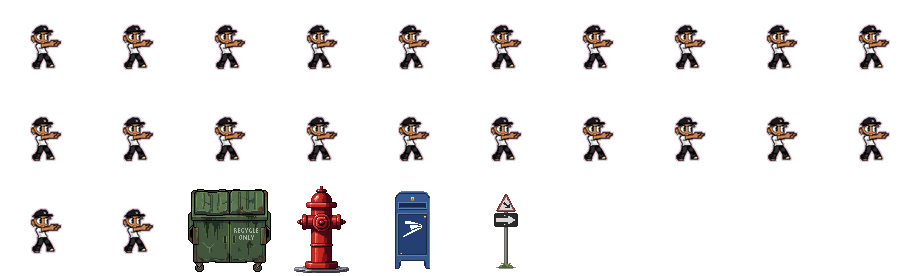
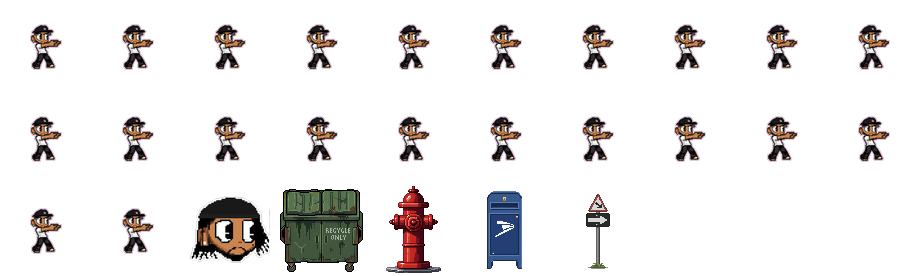
Battery-style HP bar and a dedicated portrait face, from reference art
- packed a new hero.portrait sprite from the uploaded face crop; the
  HUD portrait box and the PWA manifest icon now draw it directly
  instead of zooming into a corner of the full-body placeholder pose
- replaced the 4-heart HP display with a battery-style bar (case,
  green charge draining to white, terminal nub) matching the uploaded
  "BAM'S HEALTH BAR" reference art, labeled with a live percentage.
  Underlying HP/knockdown mechanics are unchanged — this is a display
  swap only.

Changed region(s): [[0.1826, 0.6667, 0.487, 1.0], [0.5174, 0.6957, 0.5783, 0.9855], [0.6391, 0.6957, 0.6696, 0.9855]]

diff --git a/src/game.html b/src/game.html
@@ -354,8 +354,8 @@ function buildManifest(){
     const rg=g.createRadialGradient(256,300,20,256,300,300);
     rg.addColorStop(0,'rgba(255,46,136,.55)'); rg.addColorStop(1,'rgba(255,46,136,0)');
     g.fillStyle=rg; g.fillRect(0,0,512,512);
-    const p=IDX['hero.rot.south'];
-    g.drawImage(sheet,p[0]+30,p[1]+20,32,52, 152,120,208,338);
+    const p=IDX['hero.portrait']||IDX['hero.rot.south'];
+    g.drawImage(sheet,p[0],p[1],S,S, 96,96,320,320);
     const man={ name:'BamBam: Warrior of Liberation', short_name:'BamBam', start_url:'.', scope:'.',
       display:'fullscreen', orientation:'landscape', background_color:'#0b0a10',
       theme_color:'#ff2e88', description:"A 2D beat 'em up.",
@@ -2800,13 +2800,10 @@ function drawDrop(d){ const sx=d.x-camX, y=d.z-d.y; shadow(d.x,d.z,5);
     ctx.save(); ctx.globalCompositeOperation='lighter'; ctx.globalAlpha=gl*0.5; ctx.fillStyle='#fff'; ctx.fillRect(sx-2,y-7,3,3); ctx.restore();
     ctx.fillStyle='#ffb545'; ctx.font='7px "JetBrains Mono",monospace'; ctx.textAlign='center'; if(t%24<16) ctx.fillText('▲',sx,y-18); } }
 
-// the head crop, measured off hero.rot.south: cols 33-59, rows 23-48
-const PORT={sx:31,sy:22,w:30,h:28};
 function portrait(px,py,box){
-  const p=IDX['hero.rot.south'];
+  const p=IDX['hero.portrait']||IDX['hero.rot.south'];
   ctx.fillStyle='#0b0a10'; ctx.fillRect(px,py,box,box);
   ctx.save(); ctx.beginPath(); ctx.rect(px+1,py+1,box-2,box-2); ctx.clip();
-  const sw=0, nod=0;
   let tint=null,amt=0;
   if(P.state==='imagine'){ tint='#3ad1ff'; amt=.35+.3*Math.sin(P.st*.42); }
   if(P.hitFlash>0){ tint='#ff1a1a'; amt=.6+.4*Math.sin(P.hitFlash*1.1); }
@@ -2816,9 +2813,9 @@ function portrait(px,py,box){
     tctx.globalCompositeOperation='source-atop'; tctx.globalAlpha=amt;
     tctx.fillStyle=tint; tctx.fillRect(0,0,S,S); tctx.globalAlpha=1;
     tctx.globalCompositeOperation='source-over';
-    ctx.drawImage(tc,PORT.sx,PORT.sy,PORT.w,PORT.h, px+1+sw,py+1+nod,box-2,box-2);
+    ctx.drawImage(tc,0,0,S,S, px+1,py+1,box-2,box-2);
   } else {
-    ctx.drawImage(sheet,p[0]+PORT.sx,p[1]+PORT.sy,PORT.w,PORT.h, px+1+sw,py+1+nod,box-2,box-2);
+    ctx.drawImage(sheet,p[0],p[1],S,S, px+1,py+1,box-2,box-2);
   }
   ctx.restore();
   // frame, hot when something's happening to him
@@ -2855,15 +2852,17 @@ function hud(){
     ctx.restore(); ctx.textAlign='left'; }
 
   ctx.font='7px "JetBrains Mono",monospace';
-  // health — 4 hearts, each worth 2 half-heart units
-  const nHearts=Math.min(12,Math.ceil(P.maxhp/2));
-  for(let i=0;i<nHearts;i++){
-    const hx=LX+i*13, fill=clamp(P.hp-i*2,0,2);   // 0=empty, 1=half, 2=full
-    ctx.font='11px monospace'; ctx.textAlign='left';
-    ctx.fillStyle='#3a2030'; ctx.fillText('♥',hx,BY+9);
-    if(fill>0){ ctx.save(); ctx.beginPath(); ctx.rect(hx,BY-8,fill>=2?9:4.5,17); ctx.clip();
-      ctx.fillStyle= P.hitFlash>0?'#ff5a5a':'#ff2e88'; ctx.fillText('♥',hx,BY+9); ctx.restore(); }
-  }
+  // health — a battery-style bar (BamBam's own reference art), not hearts
+  const HY=BY-8, HH=15, HW=BW-10;
+  const hpPct=clamp(P.maxhp>0?P.hp/P.maxhp:0,0,1);
+  const hpCol = P.hitFlash>0?'#ff5a5a':'#008f00';
+  ctx.fillStyle='#0b0a10'; ctx.fillRect(LX-1,HY-1,HW+2,HH+2);        // case
+  ctx.fillStyle='#fff'; ctx.fillRect(LX+1,HY+1,HW-2,HH-2);            // empty charge
+  ctx.fillStyle=hpCol; ctx.fillRect(LX+1,HY+1,(HW-2)*hpPct,HH-2);     // charge
+  ctx.strokeStyle=hpCol; ctx.lineWidth=1; ctx.strokeRect(LX+1.5,HY+1.5,HW-3,HH-3);
+  ctx.fillStyle='#0b0a10'; ctx.fillRect(LX+HW+1,HY+HH*0.26,4,HH*0.48);   // terminal nub
+  ctx.fillStyle='#0b0a10'; ctx.font='bold 7px "JetBrains Mono",monospace'; ctx.textAlign='left';
+  ctx.fillText(Math.round(hpPct*100)+'% HP', LX+4, HY+HH-4);
   ctx.font='7px "JetBrains Mono",monospace';
 
   // FREEDOM — Imagination meter

diff --git a/src/pack.py b/src/pack.py
@@ -46,6 +46,23 @@ for key in (["hero.rot.south","hero.rot.east"]
 # hero.swing.*) aren't packed yet — comboKey() falls back to hero.punch.* until BamBam
 # has real combat frames to reframe the same way reframe_solo() does above.
 
+# a dedicated face-only crop for the HUD portrait / PWA icon (portrait()/buildManifest() in
+# game.html) — a plain body-sprite crop reads muddy at 28px, so this is packed separately
+# instead of zooming into hero.rot.south.
+def reframe_portrait(path, pad=6):
+    im=Image.open(path).convert("RGBA")
+    bb=im.getchannel("A").getbbox()
+    if bb: im=im.crop(bb)
+    avail=S-pad*2
+    f=min(avail/im.width, avail/im.height)
+    sm=im.resize((max(1,round(im.width*f)),max(1,round(im.height*f))),Image.LANCZOS)
+    cell=Image.new("RGBA",(S,S),(0,0,0,0))
+    cell.paste(sm,(round((S-sm.width)/2),round((S-sm.height)/2)),sm)
+    return cell
+
+PB=os.path.join(ROOT,"BamBamPortrait","face.png")
+PREFRAMED["hero.portrait"]=reframe_portrait(PB); add("hero.portrait", PB)
+
 # Street enemies (formerly vamp/Darnell/DarnellDark FATBACK art) and the crowd bystander
 # sprite (Smoking_a_cigarette) are no longer packed — drawVamp()/drawCrowd() draw a generic
 # procedural placeholder shape instead, until real BamBam enemy art (Security Guards, Corrupt